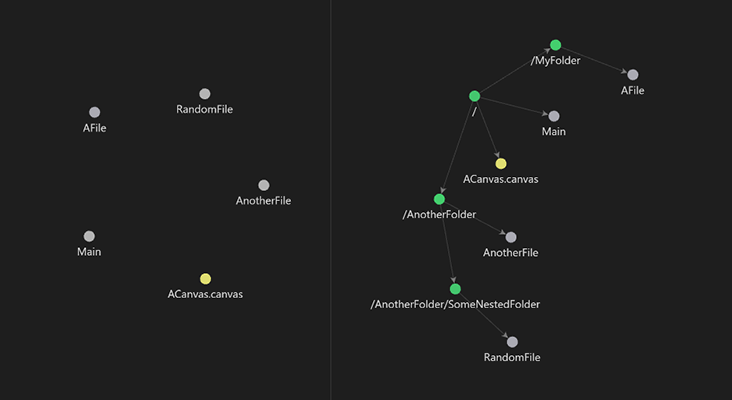
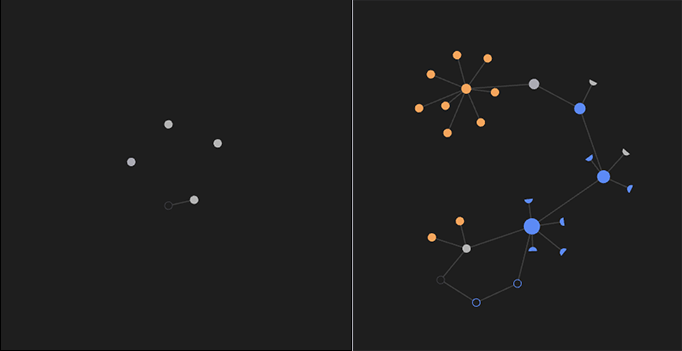
New version changelog

diff --git a/README.md b/README.md
@@ -2,8 +2,8 @@
 
 > Combine your folder structure into your graphs
 
-This following is an [Obsidian](https://obsidian.md) plugin which allows you to display your vault folder structure into
-your graphs.
+This following is an [Obsidian](https://obsidian.md) plugin which allows you to display your vault folder structure and
+headings into your graphs.
 
 ![](./media/readme_thumbnail.png)
 
@@ -12,36 +12,99 @@ your graphs.
 By enabling this extension, all you graphs will add your vault folder structure into their view. Really usefull if you
 use folders to structure your notes.
 
+You can also display your files' headings into the graph, and even fold/unfold them to hide/show their content.
+
 ## How to use it?
 
 Nothing more easier:
 
--   Go on Obsidian, then click on the `Settings` button on the left-bottom corner,
--   Go to `Community plugins` tab,
-    -   If needed, enable them by clicking on `Turn on community plugins`,
--   Click on `Browse`, then search `Folders to Graph`,
--   Download the plugin, then enable it.
+- Go on Obsidian, then click on the `Settings` button on the left-bottom corner,
+- Go to `Community plugins` tab,
+    - If needed, enable them by clicking on `Turn on community plugins`,
+- Click on `Browse`, then search `Folders to Graph`,
+- Download the plugin, then enable it.
+
+Noice functionnalities:
+
+- Fold and unfold nodes by Shift+clicking them:
+    - Shift+left-click folds a node's whole subtree, or reveals its direct children when fully folded.
+    - Shift+right-click unfolds recursively.
+- Show/hide the folder or heading nodes independently from the command palette (Mod+Shift+G and Mod+Shift+H by default).
+- Define a list of folders to include or exclude from the graph, with an option to hide excluded files entirely instead
+  of leaving them disconnected.
+- Ctrl/Cmd+click a folder node to pre-fill the graph search with a `path:"…"` filter; Ctrl/Cmd+click the root node to
+  clear it.
+- Choose how [[note#Heading]] links are drawn: file → file, file → heading, heading → file, or heading → heading.
+- Ghost nodes for unresolved wikilinks: missing folders, files, and headings implied by unresolved links appear as
+  outlined nodes. Clicking a ghost creates the content (folder, file, or heading) and redirect you to it.
 
 ### Want to install it manually?
 
--   Go on the [repo releases tab](https://github.com/Ratibus11/folders2graph/releases),
--   Download the release you want,
--   Go to your vault plugins folder (eg. `/path/to/your/vault/.obsidian/plugin`),
--   Finally, extract the downloaded zip content here,
+- Go on the [repo releases tab](https://github.com/Ratibus11/folders2graph/releases),
+- Download the release you want,
+- Go to your vault plugins folder (eg. `/path/to/your/vault/.obsidian/plugin`),
+- Finally, extract the downloaded zip content here,
 
 ## Changelog
 
+### 2026-06-13
+
+- New features
+    - Heading nodes ([#24](https://github.com/ratibus11/folders2graph/issues/24)) — Display each note's heading
+      structure in the graph. Notes referenced under a heading attach to that heading, and heading nodes have their own
+      configurable color.
+    - Fold & unfold ([#32](https://github.com/ratibus11/folders2graph/issues/32)) — Shift+left-click folds a node's
+      whole subtree, or reveals its direct children when fully folded; Shift+right-click unfolds recursively. Folded
+      nodes render as half-discs oriented toward their parent. Fold state persists across restarts, and an Unfold all
+      graph nodes command resets everything.
+    - Weight nodes by descendants ([#33](https://github.com/ratibus11/folders2graph/issues/33)) — Optional: node size
+      reflects every displayed descendant at any depth, not just direct children. Folded nodes shrink accordingly.
+    - Folder filtering ([#31](https://github.com/ratibus11/folders2graph/issues/31)) — Include or exclude a list of
+      folders (recursive, one path per line), with an option to hide filtered-out files entirely instead of leaving them
+      disconnected.
+    - Folder search ([#27](https://github.com/ratibus11/folders2graph/issues/27)) — Ctrl/Cmd+click a folder node to
+      pre-fill the graph search with a `path:"…"` filter; Ctrl/Cmd+click the root node to clear it.
+    - Ghost nodes for unresolved wikilinks ([#53](https://github.com/ratibus11/folders2graph/issues/53)) — Missing
+      folders, files, and headings implied by unresolved links now appear as outlined nodes, correctly chained in the
+      hierarchy. Clicking a ghost creates the content (folder, file, or heading) and then behaves like a regular click:
+      explorer highlight, or opening the note at the new section.
+    - Heading link anchoring ([#53](https://github.com/ratibus11/folders2graph/issues/53)) — Choose how [[note#Heading]]
+      links are drawn: file → file, file → heading, heading → file, or heading → heading (default). The mode only
+      affects edges — ghost headings stay visible regardless.
+    - Commands & hotkeys ([#25](https://github.com/ratibus11/folders2graph/issues/25),
+      [#48](https://github.com/ratibus11/folders2graph/issues/48)) — Toggle folder nodes (Mod+Shift+G), heading nodes
+      (Mod+Shift+H), the root folder node, and subtree weighting from the command palette.
+    - Folder node color ([#23](https://github.com/ratibus11/folders2graph/issues/23)) — Folder nodes use a configurable
+      color instead of the tag color.
+
+- Improvements
+    - Settings tab reorganized into native-style groups (Folders, Headings, Folder filtering, Weighting), with refreshed
+      English and French copy.
+    - The graph refreshes automatically on vault changes (file/folder create, delete, rename, and content edits),
+      keeping ghost states accurate.
+
+- Bug fixes
+    - Bookmarked graph views no longer flash and revert to the global settings while the plugin is active
+      ([#28](https://github.com/ratibus11/folders2graph/issues/28)).
+    - The plugin now disables and re-enables cleanly — startup and shutdown were hardened
+      ([#38](https://github.com/ratibus11/folders2graph/issues/38)).
+    - Right-clicking no longer stacks multiple "New note/folder" modals
+      ([#37](https://github.com/ratibus11/folders2graph/issues/37)).
+    - Unresolved wikilinks with exotic paths (leading slash, empty segments) no longer generate malformed phantom folder
+      nodes — the crash reported in [#35](https://github.com/ratibus11/folders2graph/pull/35) is structurally impossible
+      now.
+
 ### 2024-11-14
 
--   Add settings tab
--   Toggle display of the root folder node (`/`) (from [#6](https://github.com/ratibus11/folders2graph/issues/6))
-    (_displayed by default_)
--   Supports French and English. Feel free to suggest new translations!
+- Add settings tab
+- Toggle display of the root folder node (`/`) (from [#6](https://github.com/ratibus11/folders2graph/issues/6))
+  (_displayed by default_)
+- Supports French and English. Feel free to suggest new translations!
 
 ### 2024-02-05
 
--   Plugin first release.
--   Allows to display your Obsidian vault folder structure into your graphs by enabling the extension.
+- Plugin first release.
+- Allows to display your Obsidian vault folder structure into your graphs by enabling the extension.
 
 > Inspired on drPilman's [`obsidian-graph-nested-tags`](https://github.com/drPilman/obsidian-graph-nested-tags) obsidian
 > plugin. Check this out.
